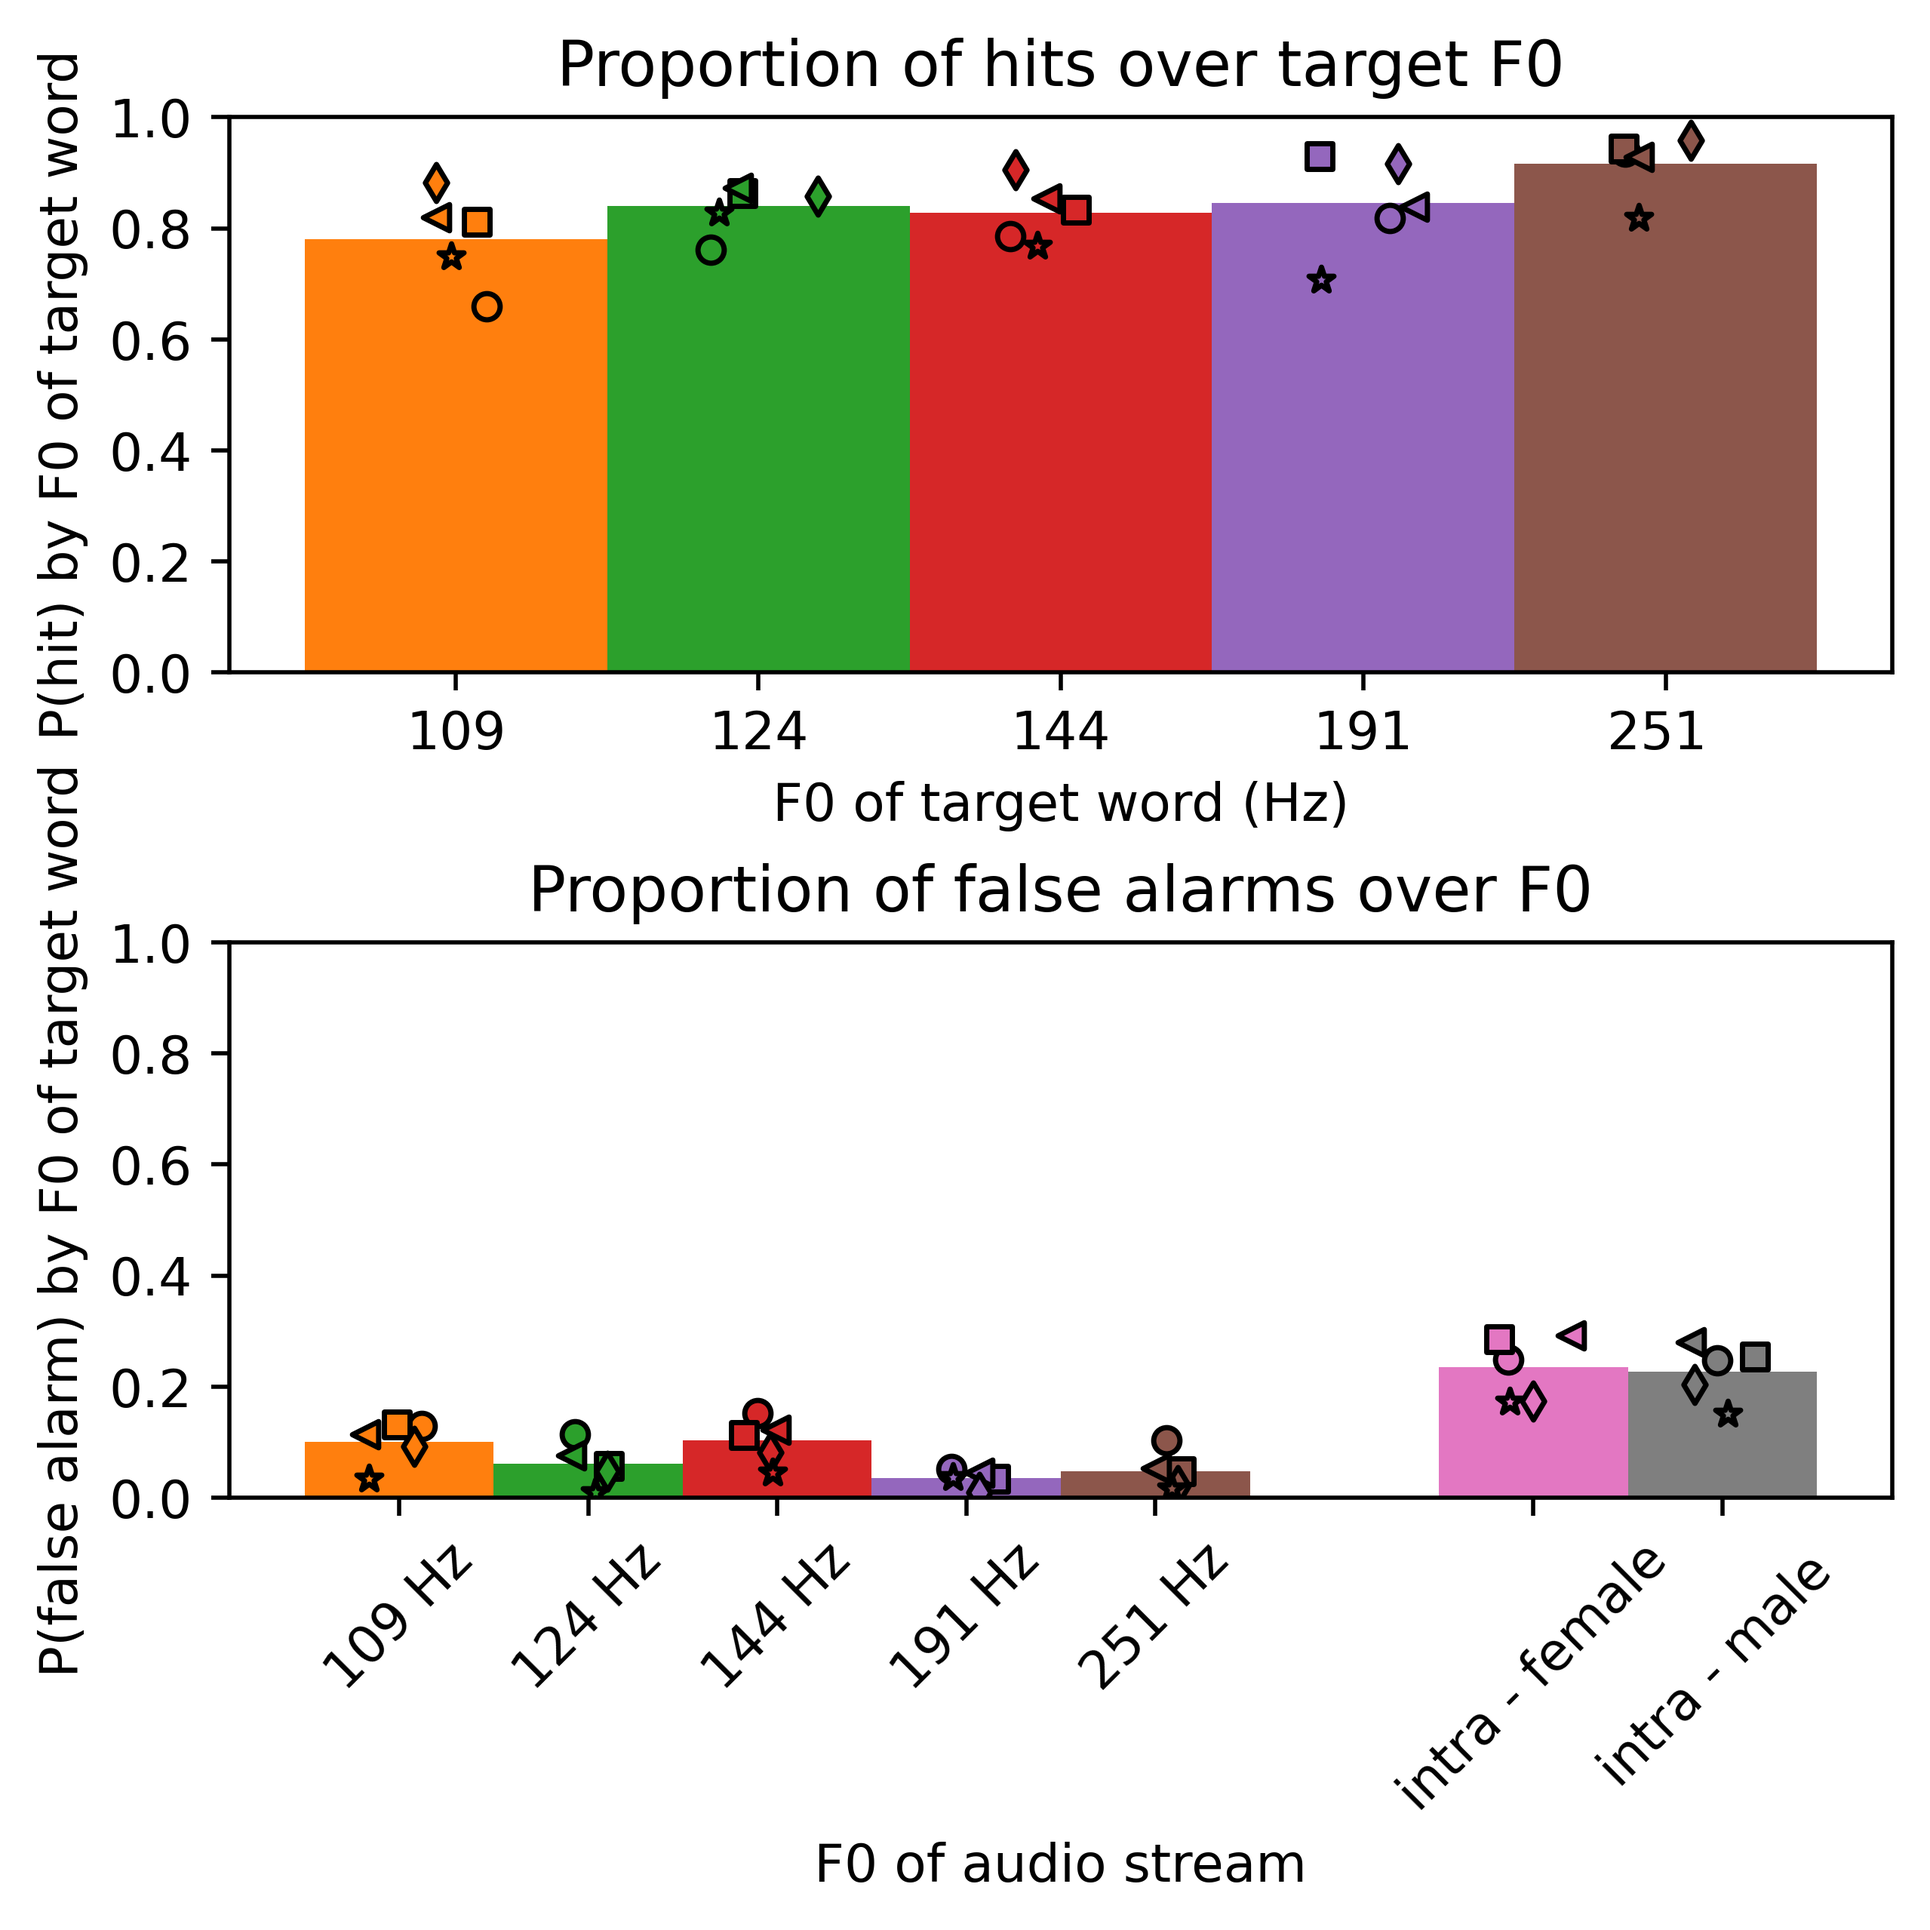
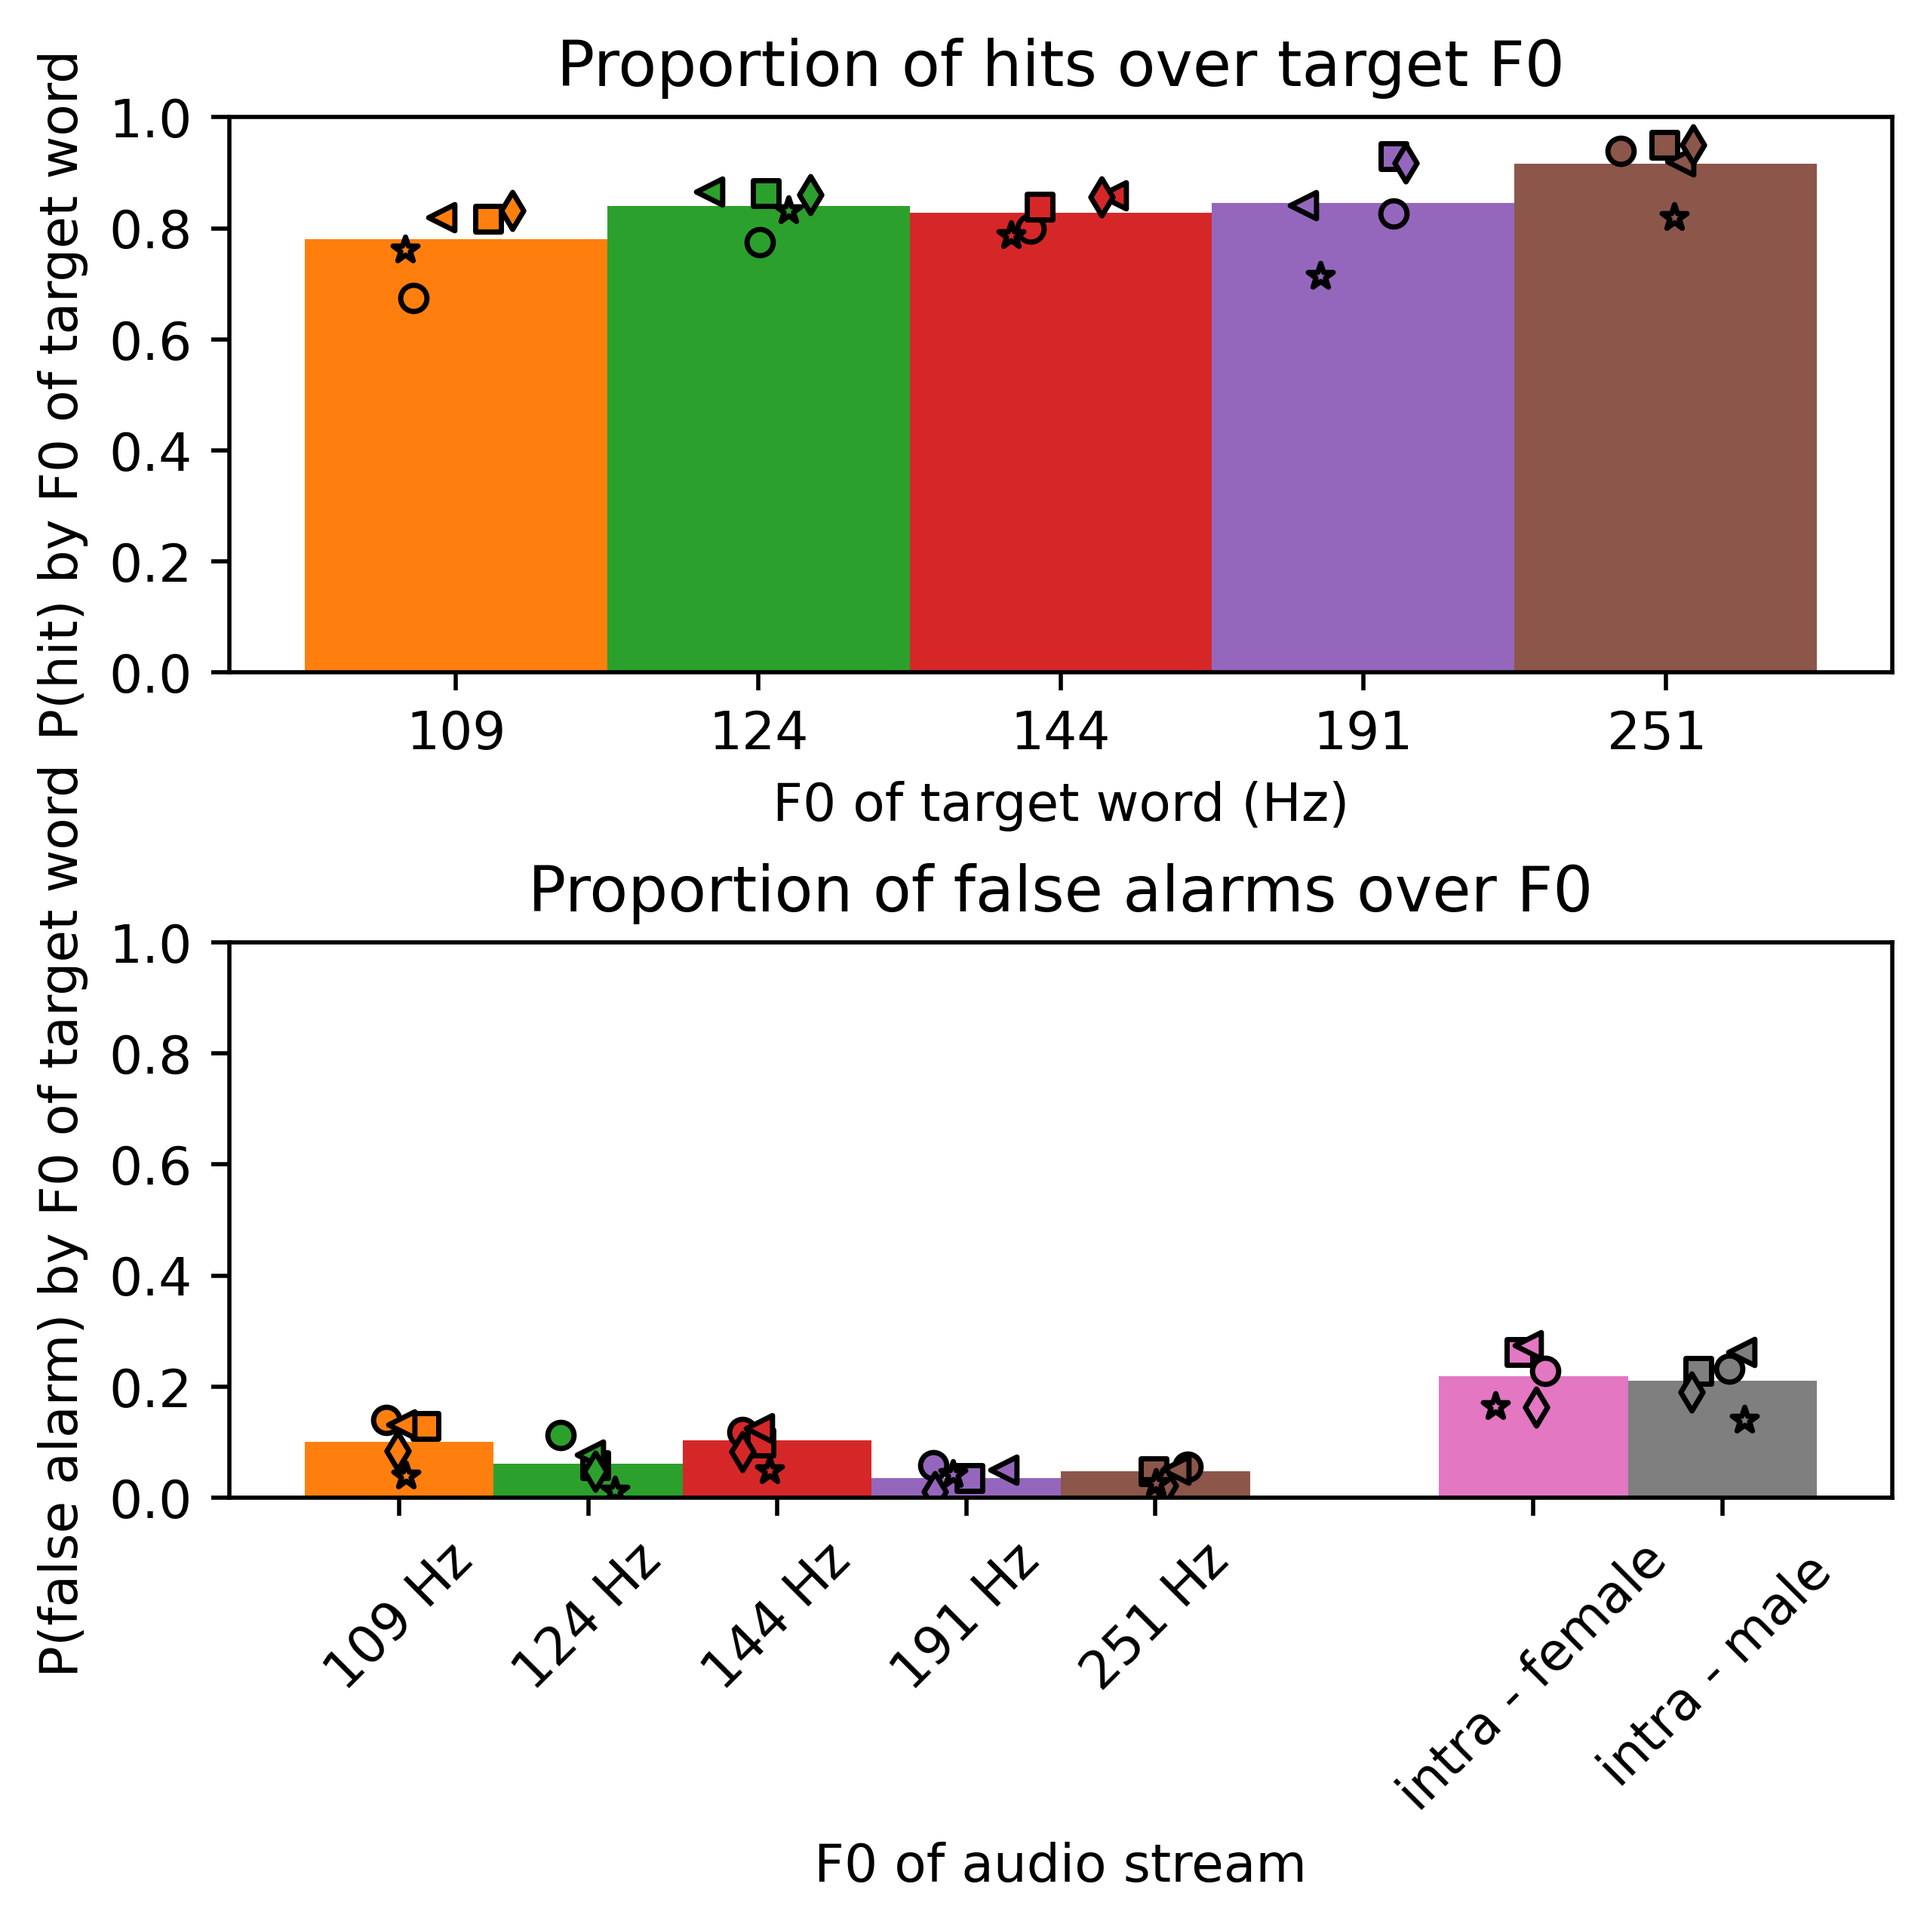
adding transparency to swarm plots

diff --git a/models/runfalsealarmmodel.py b/models/runfalsealarmmodel.py
@@ -1168,14 +1168,14 @@ def plot_reaction_times_interandintra_swarm(ferrets):
     fig = plt.figure(figsize=(20, 5))
     ax_dict = fig.subplot_mosaic(mosaic)
     for ferret in ferrets:
-        sns.swarmplot(df_by_ferret_f_control[ferret]['realRelReleaseTimes'], color='blue', label='control F0, female', ax = ax_dict[str(ferret)], alpha=0.5)
-        sns.swarmplot(df_by_ferret_f_rove[ferret]['realRelReleaseTimes'], color='red', label='inter-roved F0, female', ax = ax_dict[str(ferret)], alpha=0.5)
-        sns.swarmplot(df_by_ferret_m_control[ferret]['realRelReleaseTimes'], color='green', label='control F0, male', ax = ax_dict[str(ferret)], alpha = 0.5)
-        sns.swarmplot(df_by_ferret_m_rove[ferret]['realRelReleaseTimes'], color='orange', label='inter-roved F0, male', ax = ax_dict[str(ferret)], alpha = 0.5)
+        sns.swarmplot(df_by_ferret_f_control[ferret]['realRelReleaseTimes'], color='blue', label='control F0, female', ax = ax_dict[str(ferret)], alpha=0.2)
+        sns.swarmplot(df_by_ferret_f_rove[ferret]['realRelReleaseTimes'], color='red', label='inter-roved F0, female', ax = ax_dict[str(ferret)], alpha=0.2)
+        sns.swarmplot(df_by_ferret_m_control[ferret]['realRelReleaseTimes'], color='green', label='control F0, male', ax = ax_dict[str(ferret)], alpha = 0.2)
+        sns.swarmplot(df_by_ferret_m_rove[ferret]['realRelReleaseTimes'], color='orange', label='inter-roved F0, male', ax = ax_dict[str(ferret)], alpha = 0.2)
         sns.swarmplot(df_by_ferret_f_rove_intra[ferret]['realRelReleaseTimes'], color='darkmagenta',
-                     label='intra-roved F0, female', ax = ax_dict[str(ferret)], alpha = 0.5)
+                     label='intra-roved F0, female', ax = ax_dict[str(ferret)], alpha = 0.2)
         sns.swarmplot(df_by_ferret_m_rove_intra[ferret]['realRelReleaseTimes'], color='orangered',
-                     label='intra-roved F0, male', ax=ax_dict[str(ferret)], alpha =0.5)
+                     label='intra-roved F0, male', ax=ax_dict[str(ferret)], alpha =0.2)
 
         ax_dict[str(ferret)].set_title('Reaction times for ' + str(ferret_labels[ferret]), fontsize=12)
         if ferret == 0:
@@ -1192,7 +1192,7 @@ def plot_reaction_times_interandintra_swarm(ferrets):
     ax_dict['4'].annotate('e)', xy=get_axis_limits(ax_dict['4']), xytext=(-0.1, ax_dict['4'].title.get_position()[1]+0.01), textcoords='axes fraction', fontproperties = font_props,zorder=1)
 
 
-    plt.savefig('D:/behavmodelfigs/reaction_times_by_ferret_interbigmosaic.png', dpi=500)
+    plt.savefig('D:/behavmodelfigs/reaction_times_by_ferret_swarm_interbigmosaic.png', dpi=500)
     plt.show()
 
     return df_by_ferret

diff --git a/helpers/behaviouralhelpersformodels.py b/helpers/behaviouralhelpersformodels.py
@@ -835,7 +835,9 @@ class behaviouralhelperscg():
 
                 chosentrial = pitchshiftmat.values[i]
                 is_all_zero = np.all((chosentrial == 0))
-                if is_all_zero or (isinstance(chosentrial, float) and( (newdata['talker'].values == 2).any() or (newdata['talker'].values == 1).any())):
+                chosentalker = talkerlist.values[i]
+
+                if is_all_zero or (isinstance(chosentrial, float) and( chosentalker ==2 or chosentalker==1)):
                     control_trial.append(1)
                 else:
                     control_trial.append(0)
@@ -845,7 +847,6 @@ class behaviouralhelperscg():
                     intra_trial_roving.append(0)
                 else:
                     intra_trial_roving.append(1)
-                chosentalker = talkerlist.values[i]
 
                 if chosentalker == 3 or chosentalker == 5 or chosentalker == 8 or chosentalker == 13:
                     inter_trial_roving.append(1)
@@ -863,11 +864,12 @@ class behaviouralhelperscg():
                     chosentalker = 1
                 talkerlist2[i] = chosentalker
 
-                if ((
-                            chosenresponseindex == 0 or chosenresponseindex == 1) and realrelreleasetime >= 0) or chosenresponseindex == 3 or chosenresponseindex == 7:
-                    falsealarm = np.append(falsealarm, 0)
-                else:
+                # if ((
+                #             chosenresponseindex == 0 or chosenresponseindex == 1) and realrelreleasetime >= 0) or chosenresponseindex == 3 or chosenresponseindex == 7:
+                if chosenresponseindex == 5:
                     falsealarm = np.append(falsealarm, 1)
+                else:
+                    falsealarm = np.append(falsealarm, 0)
                 if ((
                             chosenresponseindex == 0 or chosenresponseindex == 1) and realrelreleasetime >= 0) or chosenresponseindex == 3:
                     correctresp = np.append(correctresp, 1)

diff --git a/models/plotstatsacrossanimals.py b/models/plotstatsacrossanimals.py
@@ -218,7 +218,7 @@ def run_stats_calc_by_pitch(df, ferrets, stats_dict, pitch_param = 'inter_trial_
 
         df_noncatchnoncorrection = df[(df['catchTrial'] == 0) & (df['correctionTrial'] == 0) & ((df[pitch_param] == 1) |(df['control_trial'] == 1))]
         df_catchnoncorrection = df[(df['catchTrial'] == 1) & (df['correctionTrial'] == 0) & ((df[pitch_param] == 1) |(df['control_trial'] == 1))]
-        df_noncorrection = df[(df['correctionTrial'] == 0) & ((df[pitch_param] == 1) |(df['control_trial'] == 1))]
+        df_noncorrection = df[(df['correctionTrial'] == 0) & ((df[pitch_param] == 1) | (df['control_trial'] == 1))]
     count = int(0)
 
 
@@ -642,11 +642,12 @@ def run_barplot_pipeline():
 
 if __name__ == '__main__':
     stats_dict_empty = {}
-    # run_barplot_pipeline()
+    run_barplot_pipeline()
     ferrets = ['F1702_Zola', 'F1815_Cruella', 'F1803_Tina', 'F2002_Macaroni', 'F2105_Clove']
     df = behaviouralhelperscg.get_stats_df(ferrets=ferrets, startdate='04-01-2016', finishdate='01-03-2023')
-    stats_dict_all_bypitch, stats_dict_bypitch = run_stats_calc_by_pitch(df, ferrets, stats_dict_empty, pitch_param=None)
     stats_dict_all_inter, stats_dict_inter = run_stats_calc_by_pitch(df, ferrets, stats_dict_empty, pitch_param='inter_trial_roving')
+
+    stats_dict_all_bypitch, stats_dict_bypitch = run_stats_calc_by_pitch(df, ferrets, stats_dict_empty, pitch_param=None)
     stats_dict_all_intra, stats_dict_intra = run_stats_calc(df, ferrets, pitch_param='intra_trial_roving')
     plot_stats_by_pitch(stats_dict_all_bypitch, stats_dict_bypitch, stats_dict_all_inter, stats_dict_inter, stats_dict_all_intra, stats_dict_intra)
 
